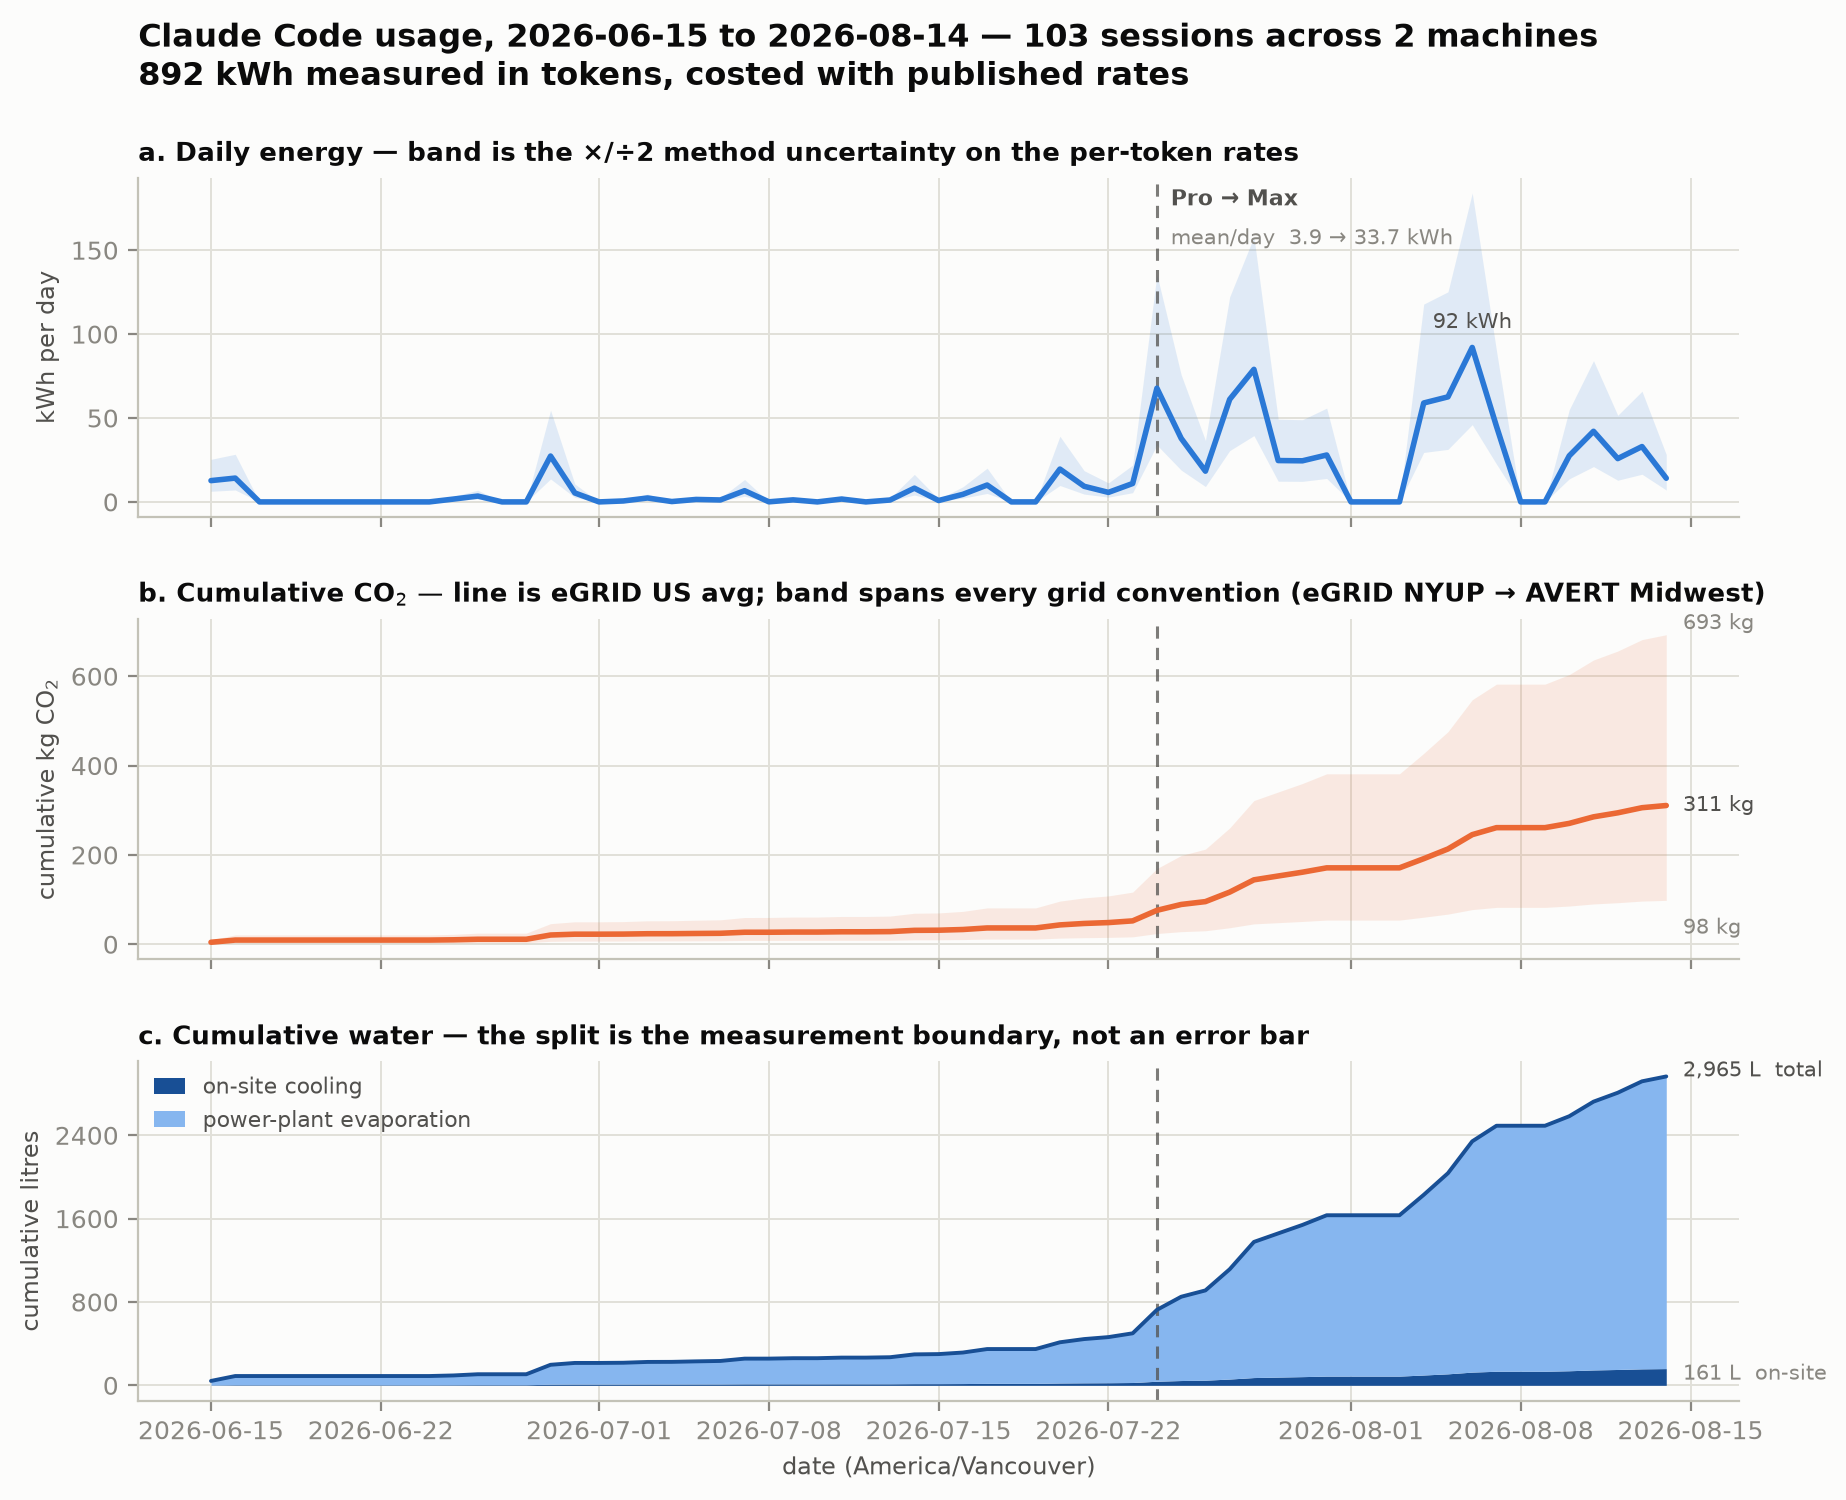
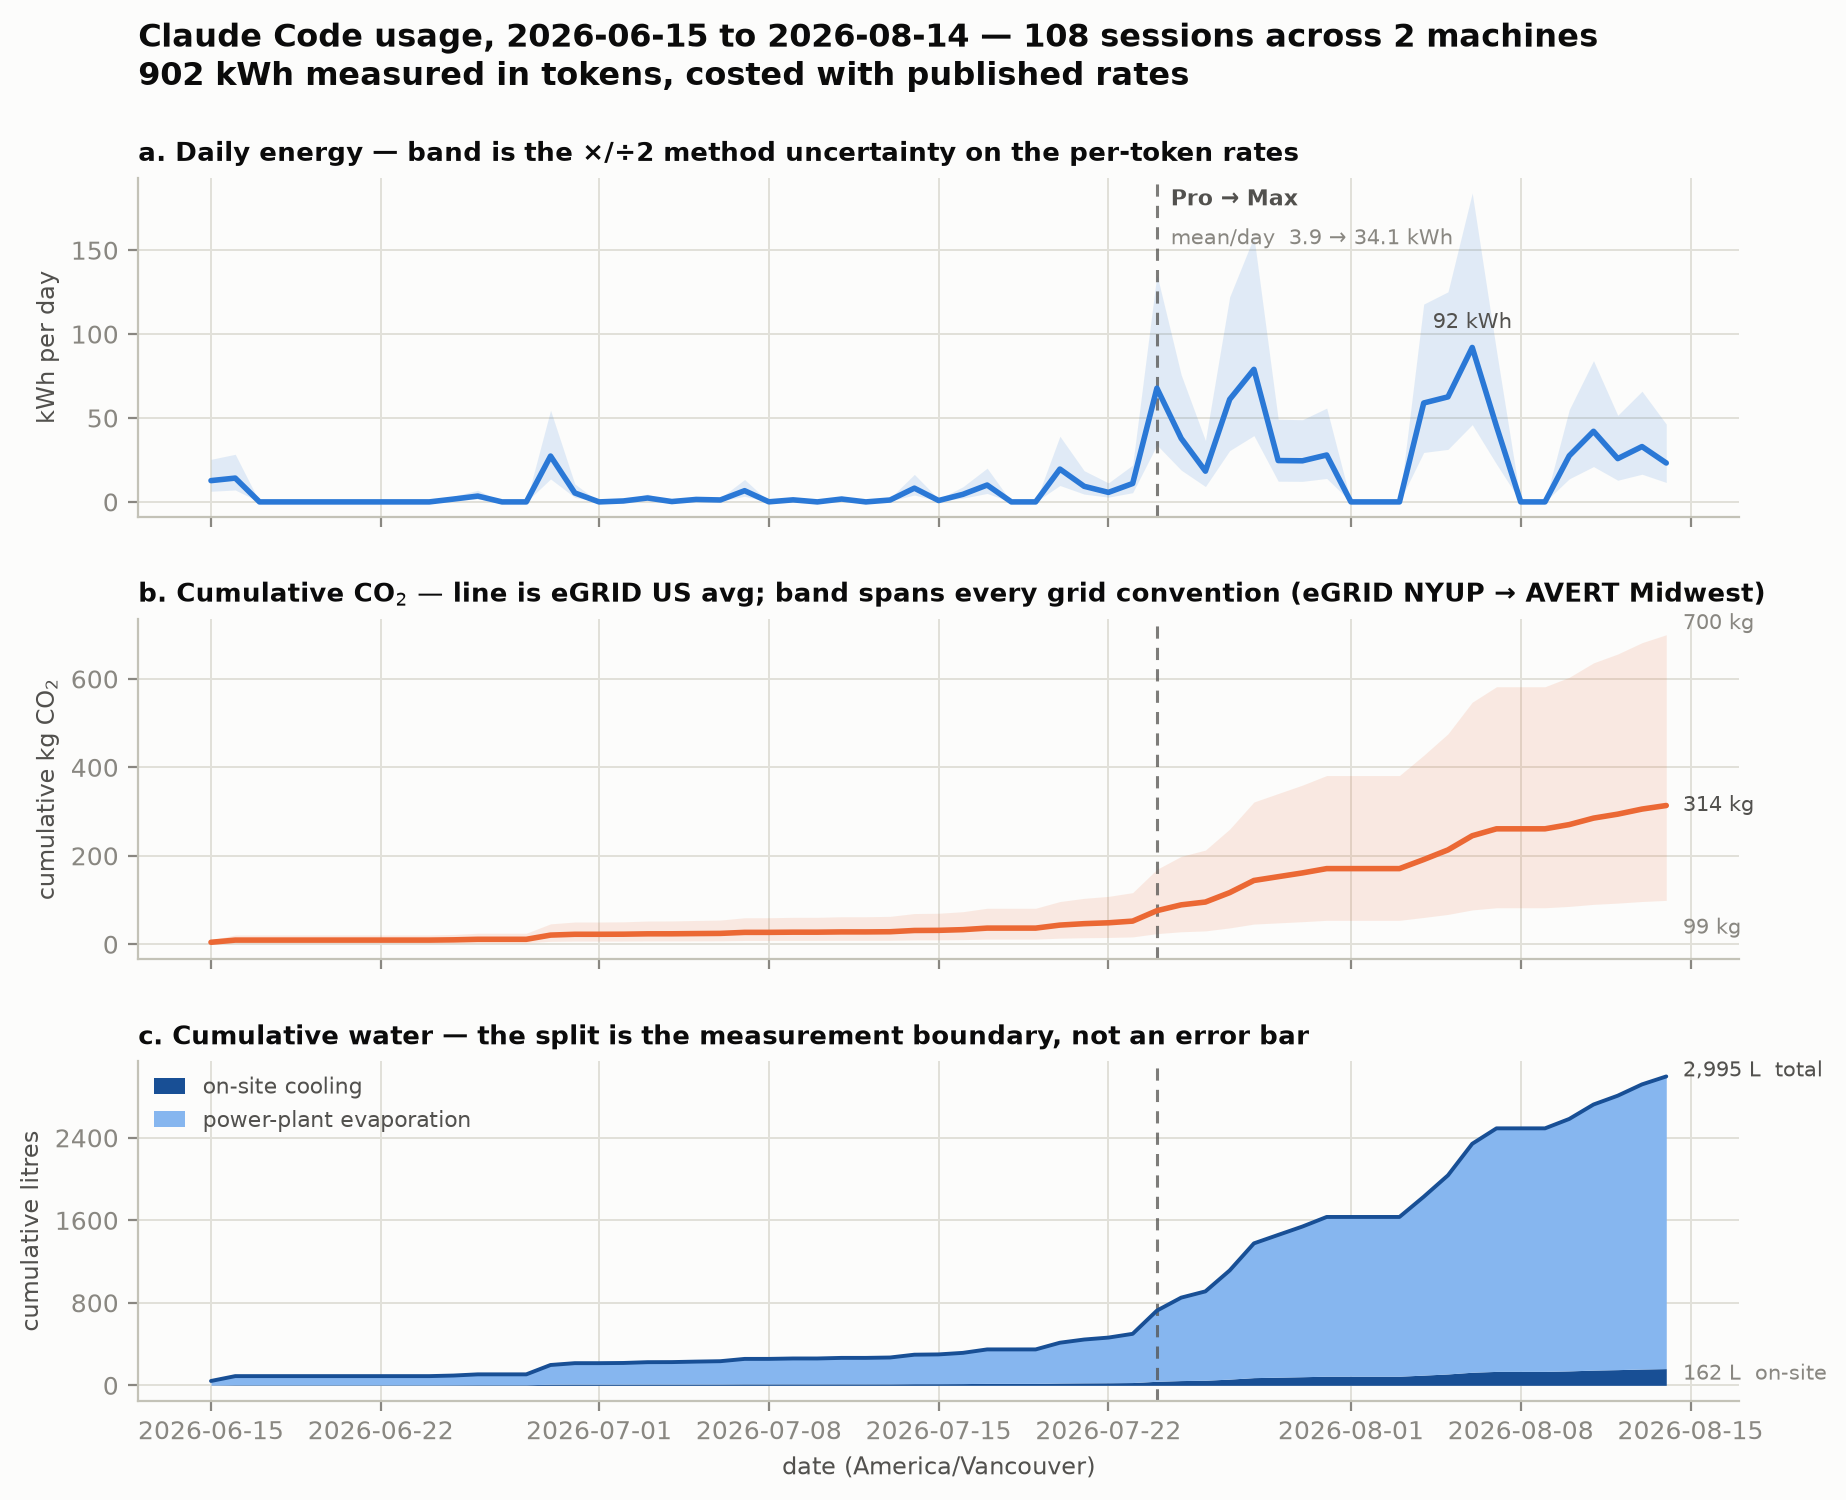
Refresh the measured snapshot and the figure that had drifted from it
HANDOFF quoted 892.5 kWh across 103 sessions; the figure in the README quoted the same.
Both were a day stale -- the real totals moved to 901 kWh and 108 sessions during the
afternoon that added the macOS app, which is the measurement observing itself.

Numbers updated, and the section now says outright that they are stale on arrival and
should not be cited: run the dashboard or measure_usage.py instead. They are kept only as
a scale check for a successor validating a fresh collection.

Figure regenerated from a fresh two-machine collection over the same window.

diff --git a/HANDOFF.md b/HANDOFF.md
@@ -27,11 +27,16 @@ Published at **github.com/Morhc/environment-cost-of-claude** (public, MIT + CC B
 | `sources.json` | **Untracked.** Your machines and label globs. `sources.example.json` is the template. |
 | `data/usage_cache.json` | **Untracked.** Collected usage; holds every directory you have worked in. |
 
-## Current measured totals (14 August 2026, both machines)
+## Measured totals — snapshot, 14 August 2026, both machines
 
-892.5 kWh · 311 kg CO₂e (US average) · 2,965 L water of which 161 L on-site · 103 sessions ·
-54,700 messages · 60 days. Cluster holds ~62%. Band across the fifteen conventions: 245–1,732
+901 kWh · 314 kg CO₂e (US average) · 2,994 L water of which 162 L on-site · 108 sessions ·
+55,329 messages · 61 days. Cluster holds ~61%. Band across the fifteen conventions: 252–1,781
 driving miles. **Any total is a snapshot that includes the work of producing it.**
+
+These numbers are stale the moment they are written — they moved by 9 kWh and 5 sessions during
+the afternoon that added the macOS app. Do not cite them; run the dashboard, or
+`python3 measure_usage.py`, and read the current figures. They are recorded here only to give a
+successor a sense of scale and something to sanity-check a fresh collection against.
 
 ## Key quantitative anchors
 
